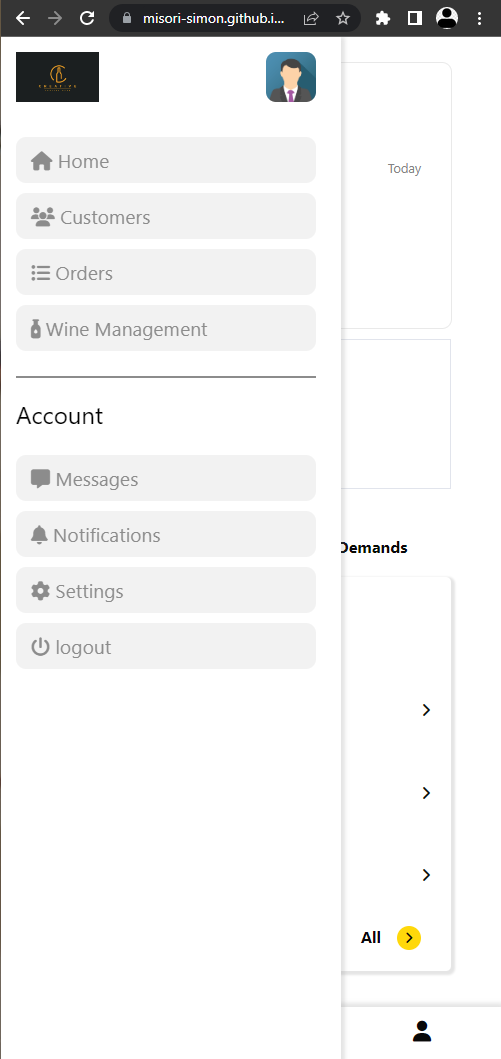
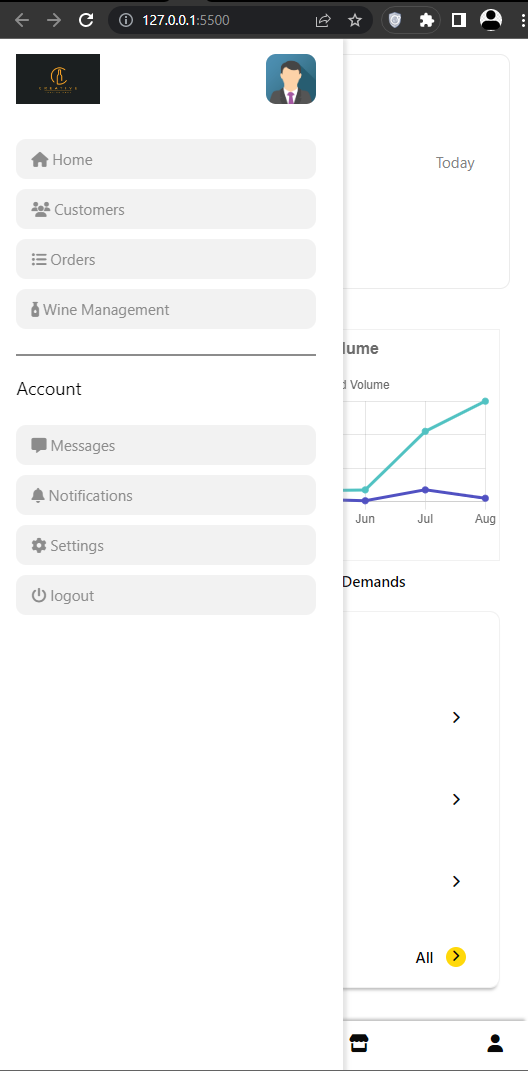
-> Update pictures, -> Update bottom-mobile-nav-width

diff --git a/css/styles.css b/css/styles.css
@@ -861,14 +861,13 @@ main {
     .bottom-menu-wrap {
         display: flex;
         justify-content: space-between;
-        max-width: 400px;
-        margin: auto;
+        width: 100%;
         background-color: #fff;
     }
 
     .bottom-menu-item {
         display: inline-block;
-        padding: 10px 20px 15px;
+        padding: 10px 25px 15px;
         font-size: 1.8rem;
         border-radius: 10px;
         color: #000;
